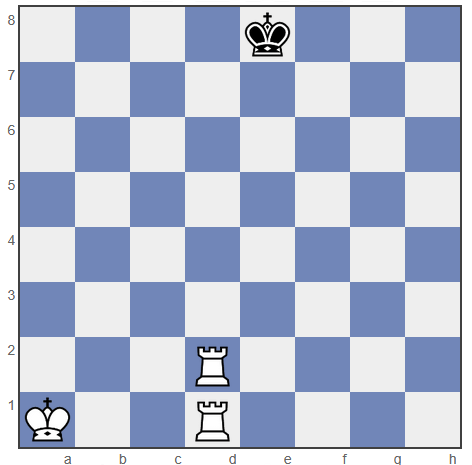
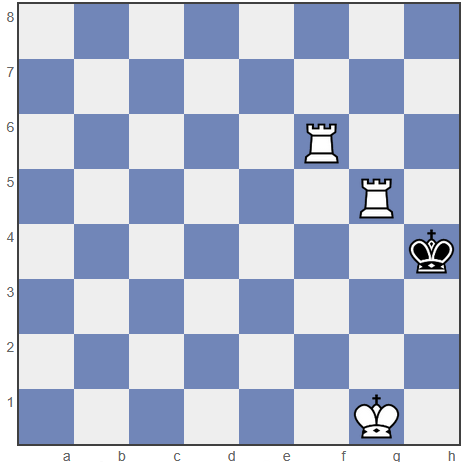
bug fixes, test improvements, simple promotion

diff --git a/src/moves.py b/src/moves.py
@@ -73,6 +73,19 @@ def move_leaves_king_in_check(board, where, to):
     board_copy.pieces_location[where] = None
     board_copy.pieces_location[to] = target
 
+    if "pawn" in target:
+        rank = to // 8
+
+        if board_copy.white_turn and rank == 7:
+            board_copy.white_pawn &= ~(1 << to)
+            board_copy.white_queen |= (1 << to)
+            board_copy.pieces_location[to] = "white_queen"
+
+        elif not board_copy.white_turn and rank == 0:
+            board_copy.black_pawn &= ~(1 << to)
+            board_copy.black_queen |= (1 << to)
+            board_copy.pieces_location[to] = "black_queen"
+
     board_copy.update_board()
     return not movesets.checked(board_copy)
 
@@ -97,8 +110,8 @@ def move_ai(board, where, to):
     """Liikkuminen laudan koordinaateilla."""
     return move(board, where, to, silent=True)
 
-def move(board, where, to, silent=False): #pylint: disable=too-many-statements
-    """Liikkuminen laudalla, poistaa lähtöruudusta nappulan ja lisää tavoiteruutuun
+def move(board, where, to, silent=False):
+    """Liikkuminen laudalla, poistaa lähtöruudusta nappulan ja lisää tavoiteruutuun. Sisältää sotilaan muuttumisen kuningattareksi.
     
     Args:
         where: lähtöruutu
@@ -123,6 +136,19 @@ def move(board, where, to, silent=False): #pylint: disable=too-many-statements
     board.pieces_location[where] = None
     board.pieces_location[to] = target
 
+    if "pawn" in target:
+        rank = to // 8
+
+        if board.white_turn and rank == 7:
+            board.white_pawn &= ~(1 << to)
+            board.white_queen |= (1 << to)
+            board.pieces_location[to] = "white_queen"
+
+        elif not board.white_turn and rank == 0:
+            board.black_pawn &= ~(1 << to)
+            board.black_queen |= (1 << to)
+            board.pieces_location[to] = "black_queen"
+
     board.white_turn = not board.white_turn
 
     board.update_board()
@@ -138,7 +164,7 @@ def move(board, where, to, silent=False): #pylint: disable=too-many-statements
 
     return True
 
-def check_legality(board, where, to): #pylint: disable=too-many-return-statements
+def check_legality(board, where, to):
     """Tarkistaa siirron pseudolaillisuuden.
     
     Args:
@@ -177,7 +203,7 @@ def check_legality(board, where, to): #pylint: disable=too-many-return-statement
     return move_leaves_king_in_check(board, where, to)
 
 
-def get_legal_moves(board):  #pylint: disable=too-many-statements
+def get_legal_moves(board):
     """Palauttaa kaikki lailliset siirrot.
     
     Returns:

diff --git a/src/tests/ai_test.py b/src/tests/ai_test.py
@@ -1,7 +1,7 @@
 import unittest
 from board import ChessBoard
 from moves import move
-from ai import get_best_move
+from ai import get_best_move, minimax
 
 
 class TestMove(unittest.TestCase):
@@ -15,26 +15,33 @@ class TestMove(unittest.TestCase):
                     'black_pawn', 'black_rook', 'black_knight', 'black_bishop', 'black_queen', 'black_king']:
             setattr(self.board, attr, 0)
 
-        self.board.white_king = 1 << 0
-        self.board.white_rook = 1 << 3
-        self.board.white_rook |= 1 << 11
-        self.board.black_king = 1 << 60
+        self.board.white_king = 1 << 6
+        self.board.white_rook = 1 << 45
+        self.board.white_rook |= 1 << 38
+        self.board.black_king = 1 << 31
 
         self.board.white_turn = True
         self.board.update_board()
         self.board.update_location()
 
-        expected = (11, 59)
+        expected = (45, 46)
         ai_move = get_best_move(self.board, max_depth=4)
         self.assertEqual(ai_move, expected)
         where, to = ai_move
-
         move(self.board, where, to)
-        move(self.board, 60, 52)
 
-        expected = (3, 51)
+        move(self.board, 31, 23)
+
+        expected = (46, 47), (38,39)
         ai_move = get_best_move(self.board, max_depth=4)
-        self.assertEqual(ai_move, expected)
+        self.assertIn(ai_move, expected)
+        where, to = ai_move
+        move(self.board, where, to)
+
+        eval_expected = 1000000
+        eval = minimax(self.board, 0, -float("inf"), float("inf"), False)
+        self.assertEqual(eval, eval_expected)
+
 
     def test_ai_finds_mate_in_three(self):
         for attr in ['white_pawn', 'white_rook', 'white_knight', 'white_bishop', 'white_queen', 'white_king',
@@ -75,4 +82,10 @@ class TestMove(unittest.TestCase):
         expected = (46, 62)
         ai_move = get_best_move(self.board, max_depth=5)
         self.assertEqual(ai_move, expected)
+        where, to = ai_move
+        move(self.board, where, to)
+
+        eval_expected = 1000000
+        eval = minimax(self.board, 0, -float("inf"), float("inf"), False)
+        self.assertEqual(eval, eval_expected)
 

diff --git a/src/movesets.py b/src/movesets.py
@@ -108,7 +108,7 @@ def king_moves(board):
     return movelist
 
 
-def pawn_moves(board): #pylint: disable=too-many-statements
+def pawn_moves(board):
     """Palauttaa kaikki sotilaan pseudolailliset liikkeet kyseisellä vuorolla.
     
     Args:
@@ -233,7 +233,7 @@ def queen_moves(board):
     return movelist
 
 
-def checked(board): #pylint: disable=too-many-statements
+def checked(board):
     if board.white_turn:
         friendly_king = board.white_king
         own_board = board.white_board
@@ -244,7 +244,7 @@ def checked(board): #pylint: disable=too-many-statements
         opponent_rooks = board.black_rook
         opponent_bishops = board.black_bishop
         opponent_pawns = board.black_pawn
-        pawn_attacks = BLACK_PAWN_ATTACKS_BITBOARD
+        pawn_attacks = WHITE_PAWN_ATTACKS_BITBOARD
     else:
         friendly_king = board.black_king
         own_board = board.black_board
@@ -255,7 +255,7 @@ def checked(board): #pylint: disable=too-many-statements
         opponent_rooks = board.white_rook
         opponent_bishops = board.white_bishop
         opponent_pawns = board.white_pawn
-        pawn_attacks = WHITE_PAWN_ATTACKS_BITBOARD
+        pawn_attacks = BLACK_PAWN_ATTACKS_BITBOARD
 
     combined_board = board.combined_board
     king_square = (friendly_king & -friendly_king).bit_length() - 1
@@ -266,8 +266,8 @@ def checked(board): #pylint: disable=too-many-statements
         return True
     if pawn_attacks[king_square] & opponent_pawns:
         return True
-    if sliding_attacks_check(king_square, ROOK_DIRECTIONS, own_board, opponent_rooks | opponent_queen, combined_board): #pylint: disable=line-too-long
+    if sliding_attacks_check(king_square, ROOK_DIRECTIONS, own_board, opponent_rooks | opponent_queen, combined_board):
         return True
-    if sliding_attacks_check(king_square, BISHOP_DIRECTIONS, own_board, opponent_bishops | opponent_queen, combined_board): #pylint: disable=line-too-long
+    if sliding_attacks_check(king_square, BISHOP_DIRECTIONS, own_board, opponent_bishops | opponent_queen, combined_board):
         return True
     return False

diff --git a/src/ai.py b/src/ai.py
@@ -86,7 +86,7 @@ def get_board_score(board):
 
     return score
 
-def minimax(board, depth, alpha, beta, maximizing): #pylint: disable=too-many-statements
+def minimax(board, depth, alpha, beta, maximizing):
     """Hyvin yksinkertainen minimax AB karsinnalla.
 
     Args:
@@ -98,20 +98,17 @@ def minimax(board, depth, alpha, beta, maximizing): #pylint: disable=too-many-st
     Returns:
         laudan evaluaatio halutulla syvyydellä.
     """
+    if depth == 0:
+        return get_board_score(board)
+
     if checked(board):
         legal_moves = moves.get_legal_moves(board)
         if not legal_moves:
             return -1000000 if maximizing else 1000000
     else:
-        if depth == 0:
-            return get_board_score(board)
-
         legal_moves = moves.get_legal_moves(board)
         if not legal_moves:
             return 0
-
-    if depth == 0:
-        return get_board_score(board)
 
     def move_priority(board, move):
         """Järjestää nappulat AB karsintaa varten. Syötävän arvo - syöjän arvo on päämäärittäjä, 
@@ -157,7 +154,7 @@ def minimax(board, depth, alpha, beta, maximizing): #pylint: disable=too-many-st
             break
     return min_eval
 
-def get_best_move(board, max_depth=4): #pylint: disable=too-many-statements
+def get_best_move(board, max_depth=4):
     """ Kertoo parhaan laillisen siirron nykyiselle pelaajalle minimaxilla.
     
     Returns:
